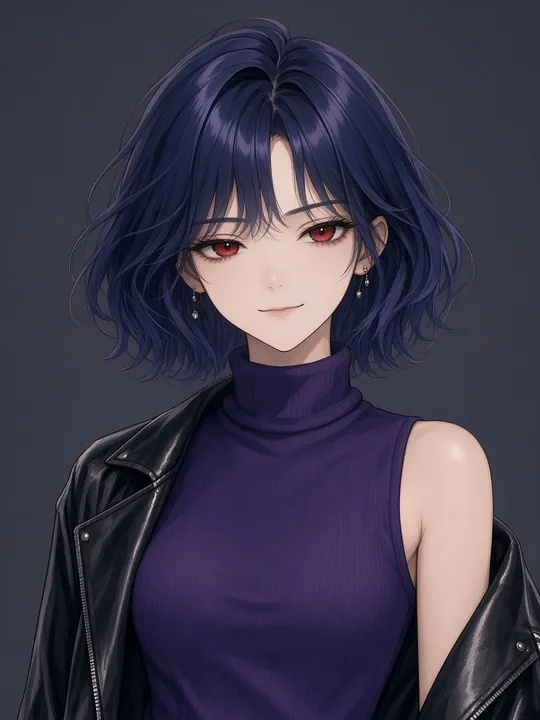
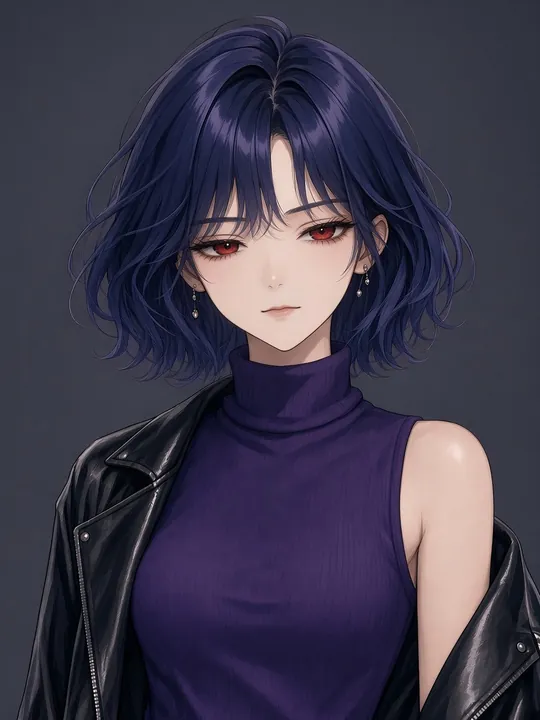
챕터 0 대화 초상화: 오유나 3종 · 임유리 4종 · [각성] 임유리

diff --git a/js/story-data.js b/js/story-data.js
@@ -955,12 +955,12 @@ window.STORY_DATA.chapters[0].byStarter['2000200044'] = {
 // 표정 파일: base(기본) · angry(화남/분노) · smile(웃음) · sad(슬픔/우울) · surprised(놀람) · playful(장난)
 // 대사 표정: "expr" 또는 "face" 키 (한글·영문 모두), 또는 speaker를 '문지예(화남)'처럼. 비우면 기본.
 // 그 표정 파일이 없으면 비슷한 표정(exprAlt: 웃음↔장난) → <slug>_base → 카드 그림 순으로 대체.
-window.STORY_DATA.portraits = { '문지예': 'mun_jiye', '문지아': 'mun_jia', '용지혜': 'yong_jihye', '안리': 'an_ri', '이민채': 'lee_minchae', '홍가영': 'gayoung', '오명준': 'myungjun', '송철순': 'cheolsun', '문희찬': 'heechan', '곽재준': 'kwak_jaejun', '한겨울': 'han_gyeoul', '임유리': 'im_yuri', '진하린': 'jin_harin', '민유연': 'min_yuyeon', '민홍기': 'min_honggi', '유가을': 'yu_gaeul', '강태안': 'kang_taean', '강태준': 'kang_taejun', '이민수': 'lee_minsu', '김철민': 'kim_cheolmin', '유연 아버지': 'min_father', '유연 어머니': 'min_mother', '[각성] 임유리': 'im_yuri' };
+window.STORY_DATA.portraits = { '문지예': 'mun_jiye', '문지아': 'mun_jia', '용지혜': 'yong_jihye', '안리': 'an_ri', '이민채': 'lee_minchae', '홍가영': 'gayoung', '오명준': 'myungjun', '송철순': 'cheolsun', '문희찬': 'heechan', '곽재준': 'kwak_jaejun', '한겨울': 'han_gyeoul', '임유리': 'im_yuri', '진하린': 'jin_harin', '민유연': 'min_yuyeon', '민홍기': 'min_honggi', '유가을': 'yu_gaeul', '강태안': 'kang_taean', '강태준': 'kang_taejun', '이민수': 'lee_minsu', '김철민': 'kim_cheolmin', '유연 아버지': 'min_father', '유연 어머니': 'min_mother', '[각성] 임유리': 'im_yuri_awake', '오유나': 'o_yuna' };
 window.STORY_DATA.exprSlug = { '기본': 'base', '보통': 'base', '화남': 'angry', '분노': 'angry', '웃음': 'smile', '슬픔': 'sad', '놀람': 'surprised', '장난': 'playful',
   base: 'base', normal: 'base', angry: 'angry', smile: 'smile', sad: 'sad', surprised: 'surprised', playful: 'playful',
   '미침': 'crazy', '싸늘': 'cold', '우울': 'sad', crazy: 'crazy', cold: 'cold',
-  '하품': 'base', '야비': 'playful', '짜증': 'angry', '당황': 'surprised' };   // 챕터 0 시트 표정 (하품 전용 그림 없음 → 기본)
-window.STORY_DATA.exprAlt = { smile: 'playful', playful: 'smile', crazy: 'playful', cold: 'angry' };
+  '하품': 'yawn', '야비': 'sneer', '야비한미소': 'sneer', '짜증': 'angry', '당황': 'surprised', yawn: 'yawn', sneer: 'sneer' };   // 챕터 0 시트 표정 (하품·야비한미소 전용 그림: im_yuri_yawn / im_yuri_sneer)
+window.STORY_DATA.exprAlt = { smile: 'playful', playful: 'smile', crazy: 'playful', cold: 'angry', sneer: 'playful', yawn: 'base' };
 
 // ===== 일일 카드 뽑기 확률 (서버 supabase/gacha.sql 과 동일하게 유지) =====
 window.STORY_DATA.gacha = { rates: [['NORMAL', 0.70], ['RARE', 0.20], ['HIGH RARE', 0.065], ['SUPER RARE', 0.03], ['ULTRA RARE', 0.005]],
